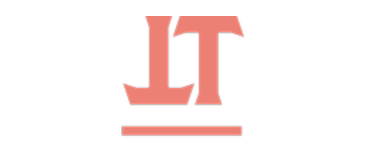
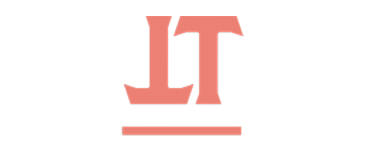
LogoTitulo

diff --git a/estilo.css b/estilo.css
@@ -1,4 +1,37 @@
-#Principal{
+#subtitulo{
     font-size: 30px;
-    color: black;
+    color: rgb(172, 33, 33);
     font-family:'Caveat',cursive;
+    top: 1500px;
+    left: 200px;
+}
+.contenedor{
+    right: 105px;
+    left: 140px;
+    position: absolute;
+    position: absolute;
+    background-size: 90px 90px;
+    background-repeat: no-repeat;
+}
+#MovimientoTitulo{
+    position: relative;
+    border-radius: 50%; 
+    animation: salto 2s;
+    animation-iteration-count: infinite;
+}
+#MovimientoTitulo::before{
+    content: ' ';
+    display: inline-block;
+    position: absolute;
+    border-radius: 50%;
+}
+#MovimientoTitulo::after{
+    content: ' ';
+    display: inline-block;
+    background-image: url(C:\Users\jeanc\Downloads\Página.png);
+
+}
+@keyframes salto{
+    0%,100%{top: 0;}
+    30% {top: -15px;}
+}

diff --git a/index.html b/index.html
@@ -10,9 +10,12 @@
 		<link href="https://fonts.googleapis.com/css2?family=Caveat&display=swap" rel="stylesheet">	
 	</head>
 	<body>
-		<header>
-		<center><h1 id="Imagen"><img src="TituloPagina.png" alt="TituloPagina" title="LogoTitulo"></h1></center
-		</header>
-		<center> <h3 id="Principal">Videojuegos,Noticias y Mucho más</h3></center>
+		<div class="contenedor">
+		<header id="MovimientoTitulo">
+		<center><h1 id="Imagen"><img src="TituloPagina.png" alt="TituloPagina" title="LogoTitulo"></h1></center>
+		<center><h3 id="subtitulo">Two Big Thumps</h3></center>
+	</header>
+	</div>
+		
 	</body>
 </html>
